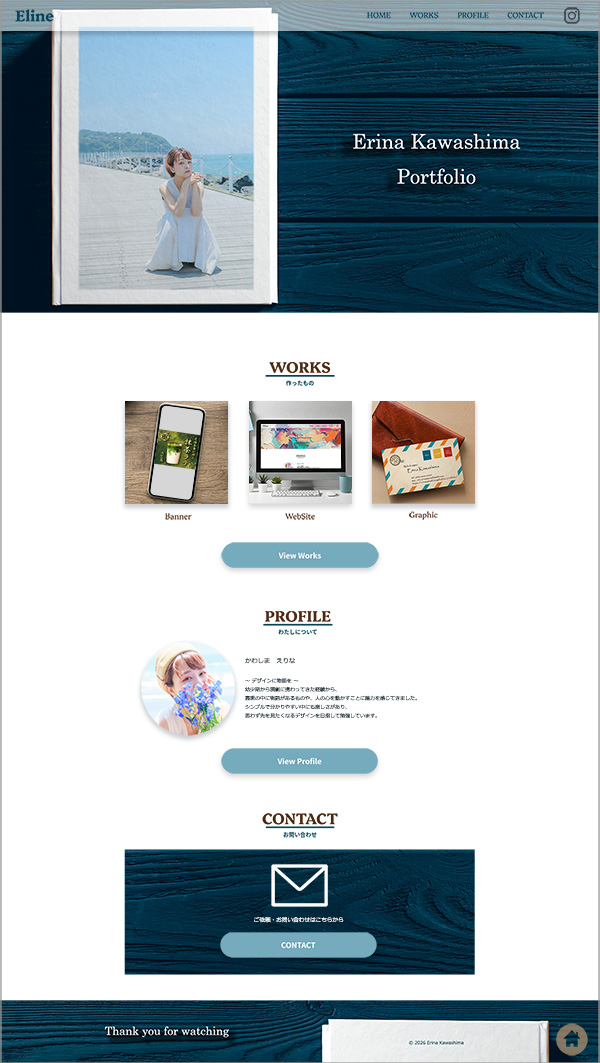
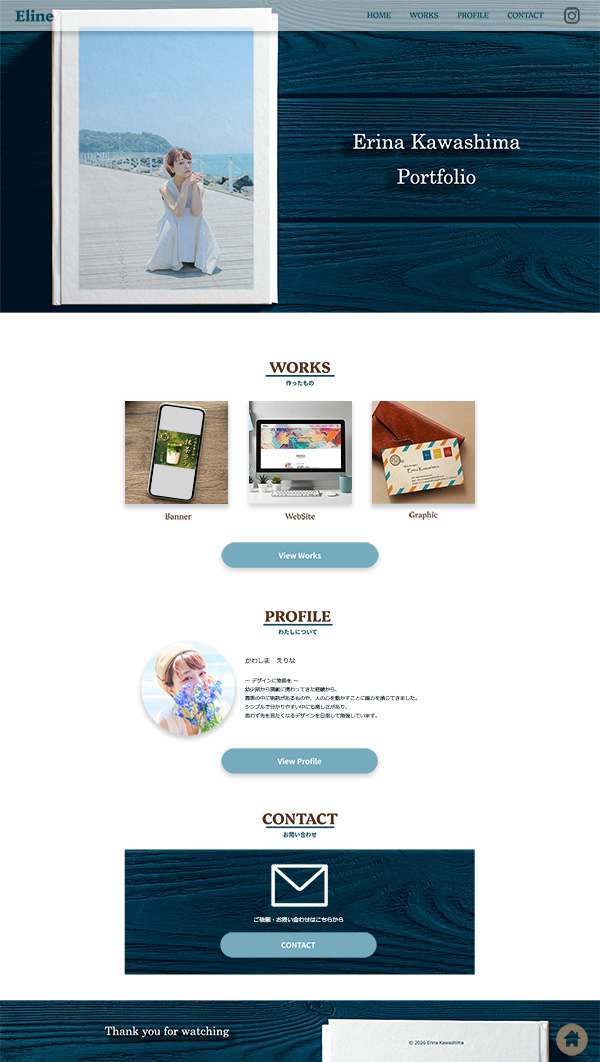
Add files via upload

diff --git a/works.html b/works.html
@@ -156,7 +156,8 @@ $(function() {
         Coffee Shop「Cozy chat」</h3>
           
         <p>職業訓練課題デザインカンプ<br>
-        ※こちらはデザインカンプのみでWebサイトは作成しておりません<br></p>
+		   職業訓練に入校1か月目頃に初めてPhotoShopで作成したデザインカンプです。<br>
+		   ※こちらはデザインカンプのみでWebサイトは作成しておりません<br></p>
 		  
        <dl>
 		<dt>Concept</dt>
@@ -164,12 +165,12 @@ $(function() {
         やさしい時間を過ごせる空間「Cozy chat」"<br>
 		記載内容は全て指示通り。バナーもオリジナルで作成。</dd>
 		<dt>Target</dt>
-        <dd>20代後半～40代女性を意識した雰囲気で、落ちついた感じのあたたかなイメージ。<br>カフェでのんびり自分時間を過ごすのが趣味。</dd>
+        <dd>20代後半～40代女性を意識した雰囲気で、落ちついた感じのあたたかなイメージ。<br>カフェでのんびり自分時間を過ごすのが趣味の方。</dd>
         <dt>Point</dt>
-        <dd>職業訓練の課題でデザインカンプを作成しました。<br>
+        <dd>
         キャッチコピーの「くつろいだ時間」や「やさしい時間」をWebサイトからも感じられるように意識して作成しました。<br>
         コンセプトやイメージを大切にし、ナチュラルで落ち着いた色味で、全体の背景画像はコーヒー豆の袋を表現。<br>
-        全てフリー素材の画像を使用していますが、明るさやトーンがバラバラだったため、統一感が出るように色味やトーンを加工しています。
+        全てフリー素材の画像を使用していますが、明るさやトーンがバラバラだったため、統一感が出るように色味やトーンをPhotoShopで加工しています。
         </dd>
 
         <dt>使用ツール</dt>
@@ -198,7 +199,7 @@ $(function() {
         <dt>Target</dt>
         <dd>主に企業の採用担当者様や、Web制作を依頼したいと考えている方を想定しています。<br>様々な企業様に見ていただくことを想定して、ターゲットを絞り込みすぎず、見やすさと爽やかな印象を大切にして作成いたしました。</dd>
         <dt>Point</dt>
-        <dd>採用担当者様が短時間で必要な情報を把握できるように、「分かりやすさ」と「導線」を特に意識しました。具体的には、最初に制作実績が目に入る構成にし、どのようなスキルがあるのかがすぐ伝わるようにしています。また、情報量が多くなりすぎないようにシンプルなデザインにすることで、内容がしっかり伝わることを重視しました。<br>IndigoやLight BlueをベースにTopページや枠組みは爽やかで落ち着いた配色に。
+        <dd>採用担当者様が短時間で必要な情報を把握できるように、「分かりやすさ」と「導線」を特に意識しました。具体的には、最初に制作実績が目に入る構成にし、どのようなスキルがあるのかがすぐ伝わるようにしています。また、情報量が多くなりすぎないようにシンプルなデザインにすることで、内容がしっかり伝わることを重視しました。<br>インディゴやライトブルーをベースにTopページや枠組みは爽やかで落ち着いた配色に。
 		<br>
 		Profileページは、様々な仕事や表現活動をしてきた自分の個性も表現できるように、カラフルな写真を使用し芸歴も掲載しました。</dd>
 		  <dt>使用ツール</dt>
@@ -211,7 +212,41 @@ $(function() {
     </div>
     
 <a href="index.html#top" class="readmore-btn">View Site</a>
-      
+
+    <div class="web-flex">
+		
+      <div class="web-box">
+        <p class="w-img"><img src="w-img/sample.jpg" alt=""/></p>
+      </div>
+      <div class="web-text">
+        <span>
+        <p><img src="w-img/w-color03.png" alt=""/></p></span>
+        <h3>架空コーポレートサイト「株式会社Sample」</h3>
+        <p>職業訓練グループ課題サイトリニューアル</p>
+        <dl>
+          <dt>Concept</dt>
+          <dd>職業訓練入校3カ月目に、実際にあるIT企業様のコーポレートサイトを作成しました。<br>
+              ポートフォリオに掲載するにあたり企業名や内容などは変更し、株式会社Sampleとして、TOPページのみを掲載しています。</dd>
+		  <dt>Target</dt>
+		  <dd>求人応募者やパートナー企業様がメインターゲットとして閲覧することを想定。</dd>
+          <dt>Point</dt>
+          <dd>商用利用可能なイラストを使用したサイト作成の指定があり、TOP画像もイラストを組み合わせて作成しました。<br>
+          サイトに統一感が出るように、イラストの色から使用カラーを選択し、IT企業としての信頼感を感じるブルーと、親しみやすさを感じるイエローをメインに、人材を大切にする姿勢を表現したオレンジとグリーンをアクセントカラーとして使用しました。<br>
+          IT未経験の求職者の方でも申し込みに踏み込めるように、企業としての信頼感と安心感、親しみやすさが伝わり、分かりやすいサイトを目指し作成しました。</dd>
+        </dl>
+        <dl>
+          <dt>使用ツール</dt>
+          <dd>Figma、Photoshop、Dreamweaver<br>
+			  フリーイラスト素材集「<a href="https://soco-st.com/tag/company">ソコスト</a>」使用</dd>
+          <dt>制作期間</dt>
+          <dd>デザイン1日 / コーディング1週間</dd>
+        </dl>
+      </div>
+    </div>
+    
+<a href="sample/top.html" class="readmore-btn">View Site</a>
+	  
+	  
     <!--<div class="web-flex">
 		
       <div class="web-box">

diff --git a/works.css b/works.css
@@ -16,6 +16,7 @@
     width: 300px;
     max-width: none;
     flex-shrink: 0;
+	box-shadow: 0 8px 20px rgba(0,0,0,0.25);
 }
 
 .b-box {
@@ -31,6 +32,9 @@
 
 .w-img {
     text-align: center;
+}
+.w-img img {
+	box-shadow: 0 8px 20px rgba(0,0,0,0.25);
 }
 
 .web-flex {
@@ -55,6 +59,9 @@
 .graphic-img {
     text-align: center;
 }
+.graphic-img img {
+	box-shadow: 0 8px 20px rgba(0,0,0,0.25);
+}
 .graphic-text {
 	text-align: center;
     margin: 2em auto;
@@ -62,7 +69,7 @@
 	/*padding-bottom: 50px;*/
 }
 
-video {
+/*video {
 	max-width: 100%;
 	height: auto;
 }
@@ -71,7 +78,7 @@ video {
 	max-width: 400px;
 	height: auto;
 	margin: 0 auto;
-}
+}*/
 
 @media (max-width:800px){
 
